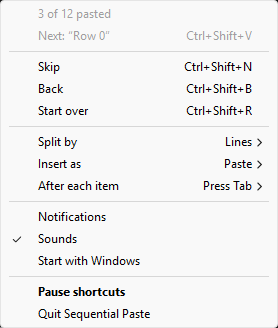
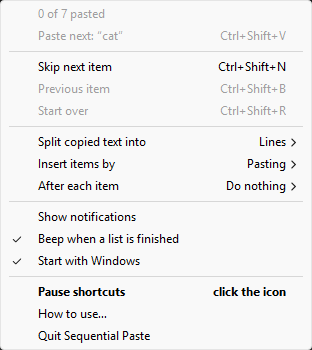
feat(tray): explain every menu option and add a How to use guide
- Each choice in Split / Insert / After each item submenus shows what it does
- Plainer labels: Split copied text into, Insert items by, Skip next item,
  Previous item, Show notifications, Beep when a list is finished
- Empty state says how to start; next item reads 'Paste next: ...'
- How to use... opens a short guide

diff --git a/tray_icon.py b/tray_icon.py
@@ -1,6 +1,7 @@
 """
 System Tray Icon - Background application interface
 """
+import ctypes
 import os
 import threading
 import pystray
@@ -16,24 +17,41 @@ import notification
 Item = pystray.MenuItem
 SEPARATOR = pystray.Menu.SEPARATOR
 
-DELIMITER_LABELS = [
-    (DelimiterType.LINE, "Lines"),
-    (DelimiterType.COMMA, "Commas"),
-    (DelimiterType.TAB, "Tabs (spreadsheet cells)"),
-    (DelimiterType.SENTENCE, "Sentences"),
-    (DelimiterType.PARAGRAPH, "Paragraphs"),
+# (value, label, what it does) - the description is shown beside each choice
+DELIMITER_CHOICES = [
+    (DelimiterType.LINE, "Lines", "each line is one item"),
+    (DelimiterType.COMMA, "Commas", "red, green, blue  →  3 items"),
+    (DelimiterType.TAB, "Spreadsheet cells", "each cell, row by row"),
+    (DelimiterType.SENTENCE, "Sentences", "each sentence is one item"),
+    (DelimiterType.PARAGRAPH, "Paragraphs", "split at blank lines"),
 ]
 
-PASTE_MODE_LABELS = [
-    ('paste', "Paste (Ctrl+V)"),
-    ('type', "Typed keystrokes"),
+PASTE_MODE_CHOICES = [
+    ('paste', "Pasting", "fast, works in most apps"),
+    ('type', "Typing it out", "for fields that block pasting"),
 ]
 
-AFTER_EACH_LABELS = [
-    ('none', "Nothing"),
-    ('tab', "Press Tab"),
-    ('enter', "Press Enter"),
+AFTER_EACH_CHOICES = [
+    ('none', "Do nothing", "stay in the same field"),
+    ('tab', "Press Tab", "jump to the next form field"),
+    ('enter', "Press Enter", "new line, or submit"),
 ]
+
+HELP_TEXT = (
+    "1. Copy a list: several lines, comma-separated values, "
+    "or cells from a spreadsheet.\n"
+    "2. Click where the first item should go.\n"
+    "3. Press Ctrl+Shift+V. Each press inserts the next item.\n"
+    "\n"
+    "Ctrl+Shift+N skips an item, Ctrl+Shift+B goes back one, "
+    "Ctrl+Shift+R starts over.\n"
+    "\n"
+    "Filling in a form? Set \"After each item\" to \"Press Tab\" and keep "
+    "pressing Ctrl+Shift+V to fill one field after another.\n"
+    "\n"
+    "When no list is loaded, or the shortcuts are paused, the shortcuts "
+    "work as normal in other apps. Click the tray icon to pause."
+)
 
 PREVIEW_LENGTH = 32
 
@@ -46,11 +64,11 @@ def _escape(text: str) -> str:
     return text.replace('&', '&&')
 
 
-def _short_label(labels, value) -> str:
-    """Current choice shown next to a submenu, e.g. 'Split by    Lines'"""
-    for key, label in labels:
+def _current_label(choices, value) -> str:
+    """Current choice shown next to a submenu, e.g. 'Split copied text into    Lines'"""
+    for key, label, _ in choices:
         if key == value:
-            return label.split(' (')[0]
+            return label
     return ''
 
 
@@ -125,7 +143,7 @@ class TrayIcon:
         if self.hotkey_handler.paused:
             return "Shortcuts paused"
         if not self.hotkey_handler.has_active_sequence:
-            return "Copy a list to start"
+            return "No list loaded"
         current, total = self.clipboard_manager.get_position()
         if current >= total:
             return f"All {total} items pasted"
@@ -144,7 +162,7 @@ class TrayIcon:
             if len(preview) > PREVIEW_LENGTH:
                 preview = preview[:PREVIEW_LENGTH - 1].rstrip() + "…"
             preview = f"“{preview}”"
-        return _escape(f"Next: {preview}") + "\tCtrl+Shift+V"
+        return _escape(f"Paste next: {preview}") + "\tCtrl+Shift+V"
 
     def _tooltip(self) -> str:
         # Windows truncates tray tooltips at 127 characters
@@ -180,6 +198,14 @@ class TrayIcon:
     def _toggle_pause(self, icon, item):
         self.hotkey_handler.set_paused(not self.hotkey_handler.paused)
 
+    def _show_help(self, icon, item):
+        # A message box blocks, so keep it off the tray's message loop
+        def show():
+            MB_ICONINFORMATION = 0x40
+            ctypes.windll.user32.MessageBoxW(None, HELP_TEXT, f"How to use {APP_NAME}",
+                                             MB_ICONINFORMATION)
+        threading.Thread(target=show, daemon=True).start()
+
     def _quit(self, icon, item):
         if self._on_exit:
             self._on_exit()
@@ -191,8 +217,9 @@ class TrayIcon:
 
     def _choice_menu(self, choices, current, make_action) -> pystray.Menu:
         return pystray.Menu(*[
-            Item(label, make_action(value), checked=lambda item, v=value: v == current, radio=True)
-            for value, label in choices
+            Item(f"{label}\t{hint}", make_action(value),
+                 checked=lambda item, v=value: v == current, radio=True)
+            for value, label, hint in choices
         ])
 
     def _create_menu(self) -> pystray.Menu:
@@ -212,27 +239,28 @@ class TrayIcon:
 
         return pystray.Menu(
             Item(self._status_text(), None, enabled=False),
-            Item(next_text or "", None, enabled=False, visible=next_text is not None),
+            Item(next_text or "Copy two or more lines, then press Ctrl+Shift+V",
+                 None, enabled=False, visible=next_text is not None or not active),
             SEPARATOR,
-            Item("Skip\tCtrl+Shift+N", lambda icon, item: handler.skip(),
+            Item("Skip next item\tCtrl+Shift+N", lambda icon, item: handler.skip(),
                  enabled=active and current < total),
-            Item("Back\tCtrl+Shift+B", lambda icon, item: handler.go_back(),
+            Item("Previous item\tCtrl+Shift+B", lambda icon, item: handler.go_back(),
                  enabled=active and current > 0),
             Item("Start over\tCtrl+Shift+R", lambda icon, item: handler.reset(),
                  enabled=active and current > 0),
             SEPARATOR,
-            Item(f"Split by\t{_short_label(DELIMITER_LABELS, delimiter)}",
-                 self._choice_menu(DELIMITER_LABELS, delimiter, self._set_delimiter)),
-            Item(f"Insert as\t{_short_label(PASTE_MODE_LABELS, paste_mode)}",
-                 self._choice_menu(PASTE_MODE_LABELS, paste_mode,
+            Item(f"Split copied text into\t{_current_label(DELIMITER_CHOICES, delimiter)}",
+                 self._choice_menu(DELIMITER_CHOICES, delimiter, self._set_delimiter)),
+            Item(f"Insert items by\t{_current_label(PASTE_MODE_CHOICES, paste_mode)}",
+                 self._choice_menu(PASTE_MODE_CHOICES, paste_mode,
                                    lambda v: self._set_setting('paste_mode', v))),
-            Item(f"After each item\t{_short_label(AFTER_EACH_LABELS, after_each)}",
-                 self._choice_menu(AFTER_EACH_LABELS, after_each,
+            Item(f"After each item\t{_current_label(AFTER_EACH_CHOICES, after_each)}",
+                 self._choice_menu(AFTER_EACH_CHOICES, after_each,
                                    lambda v: self._set_setting('after_each', v))),
             SEPARATOR,
-            Item("Notifications", self._toggle_setting('toast_enabled', False),
+            Item("Show notifications", self._toggle_setting('toast_enabled', False),
                  checked=lambda item: toasts),
-            Item("Sounds", self._toggle_setting('sounds', True),
+            Item("Beep when a list is finished", self._toggle_setting('sounds', True),
                  checked=lambda item: sounds),
             Item("Start with Windows", self._toggle_startup,
                  checked=lambda item: startup),
@@ -240,6 +268,7 @@ class TrayIcon:
             # Default item: drawn bold, and runs when the tray icon is clicked
             Item("Pause shortcuts", self._toggle_pause,
                  checked=lambda item: paused, default=True),
+            Item("How to use…", self._show_help),
             Item(f"Quit {APP_NAME}", self._quit),
         )
 

diff --git a/README.md b/README.md
@@ -25,7 +25,7 @@
 Set **After each item** to **Press Tab** and you can fill a whole form by pressing `Ctrl+Shift+V` repeatedly, since each paste moves on to the next field.
 
 <p align="center">
-  <img src="assets/image.png" alt="The Sequential Paste tray menu" width="278">
+  <img src="assets/image.png" alt="The Sequential Paste tray menu" width="312">
 </p>
 
 ## Shortcuts
@@ -36,7 +36,7 @@ Set **After each item** to **Press Tab** and you can fill a whole form by pressi
 | `Ctrl+Shift+N` | Skip the next item |
 | `Ctrl+Shift+B` | Go back one item |
 | `Ctrl+Shift+R` | Start over from the first item |
-| Hold `Esc` | Stop typing (when inserting as typed keystrokes) |
+| Hold `Esc` | Stop typing (when inserting by typing it out) |
 
 These shortcuts only act while a list is loaded. When the clipboard holds a single item, or the shortcuts are paused, they reach the app you're using as normal, so `Ctrl+Shift+V` still pastes plain text in your browser and `Ctrl+Shift+N` still opens a private window.
 
@@ -46,26 +46,28 @@ Click the tray icon to pause or resume the shortcuts. The icon turns grey while 
 
 Everything is in the tray menu (right-click the icon).
 
-**Split by**
+**Split copied text into**
 
 | Option | Input | Items |
 |--------|-------|-------|
 | Lines | `Line 1` ↵ `Line 2` | `Line 1`, `Line 2` |
 | Commas | `apple, banana` | `apple`, `banana` |
-| Tabs (spreadsheet cells) | A copied range of cells | Each cell, row by row. Empty cells are kept so fields stay lined up. |
+| Spreadsheet cells | A copied range of cells | Each cell, row by row. Empty cells are kept so fields stay lined up. |
 | Sentences | `Hello. How are you?` | `Hello.`, `How are you?` |
 | Paragraphs | Text separated by blank lines | One item per paragraph |
 
 Sentence splitting understands abbreviations (Mr., Dr., e.g.), decimals, URLs, email addresses and ellipses, and also splits on Hindi (।), Chinese and Japanese (。！？) and Arabic (؟) sentence endings.
 
-**Insert as**
+**Insert items by**
 
-- **Paste (Ctrl+V)**: fast, and works almost everywhere. Your clipboard is put back after each paste.
-- **Typed keystrokes**: types the text character by character. Use this for fields that block pasting.
+- **Pasting**: fast, and works almost everywhere. Your clipboard is put back after each paste.
+- **Typing it out**: types the text character by character. Use this for fields that block pasting.
 
-**After each item**: do nothing, press Tab (move to the next field), or press Enter.
+**After each item**: do nothing, press Tab (jump to the next form field), or press Enter.
 
-**Notifications**, **Sounds** and **Start with Windows** can be switched on and off. Notifications are off by default. Sounds are a short beep when the list is finished.
+**Show notifications**, **Beep when a list is finished** and **Start with Windows** can be switched on and off. Notifications are off by default.
+
+**How to use…** in the menu shows a short guide.
 
 ## Install
 
